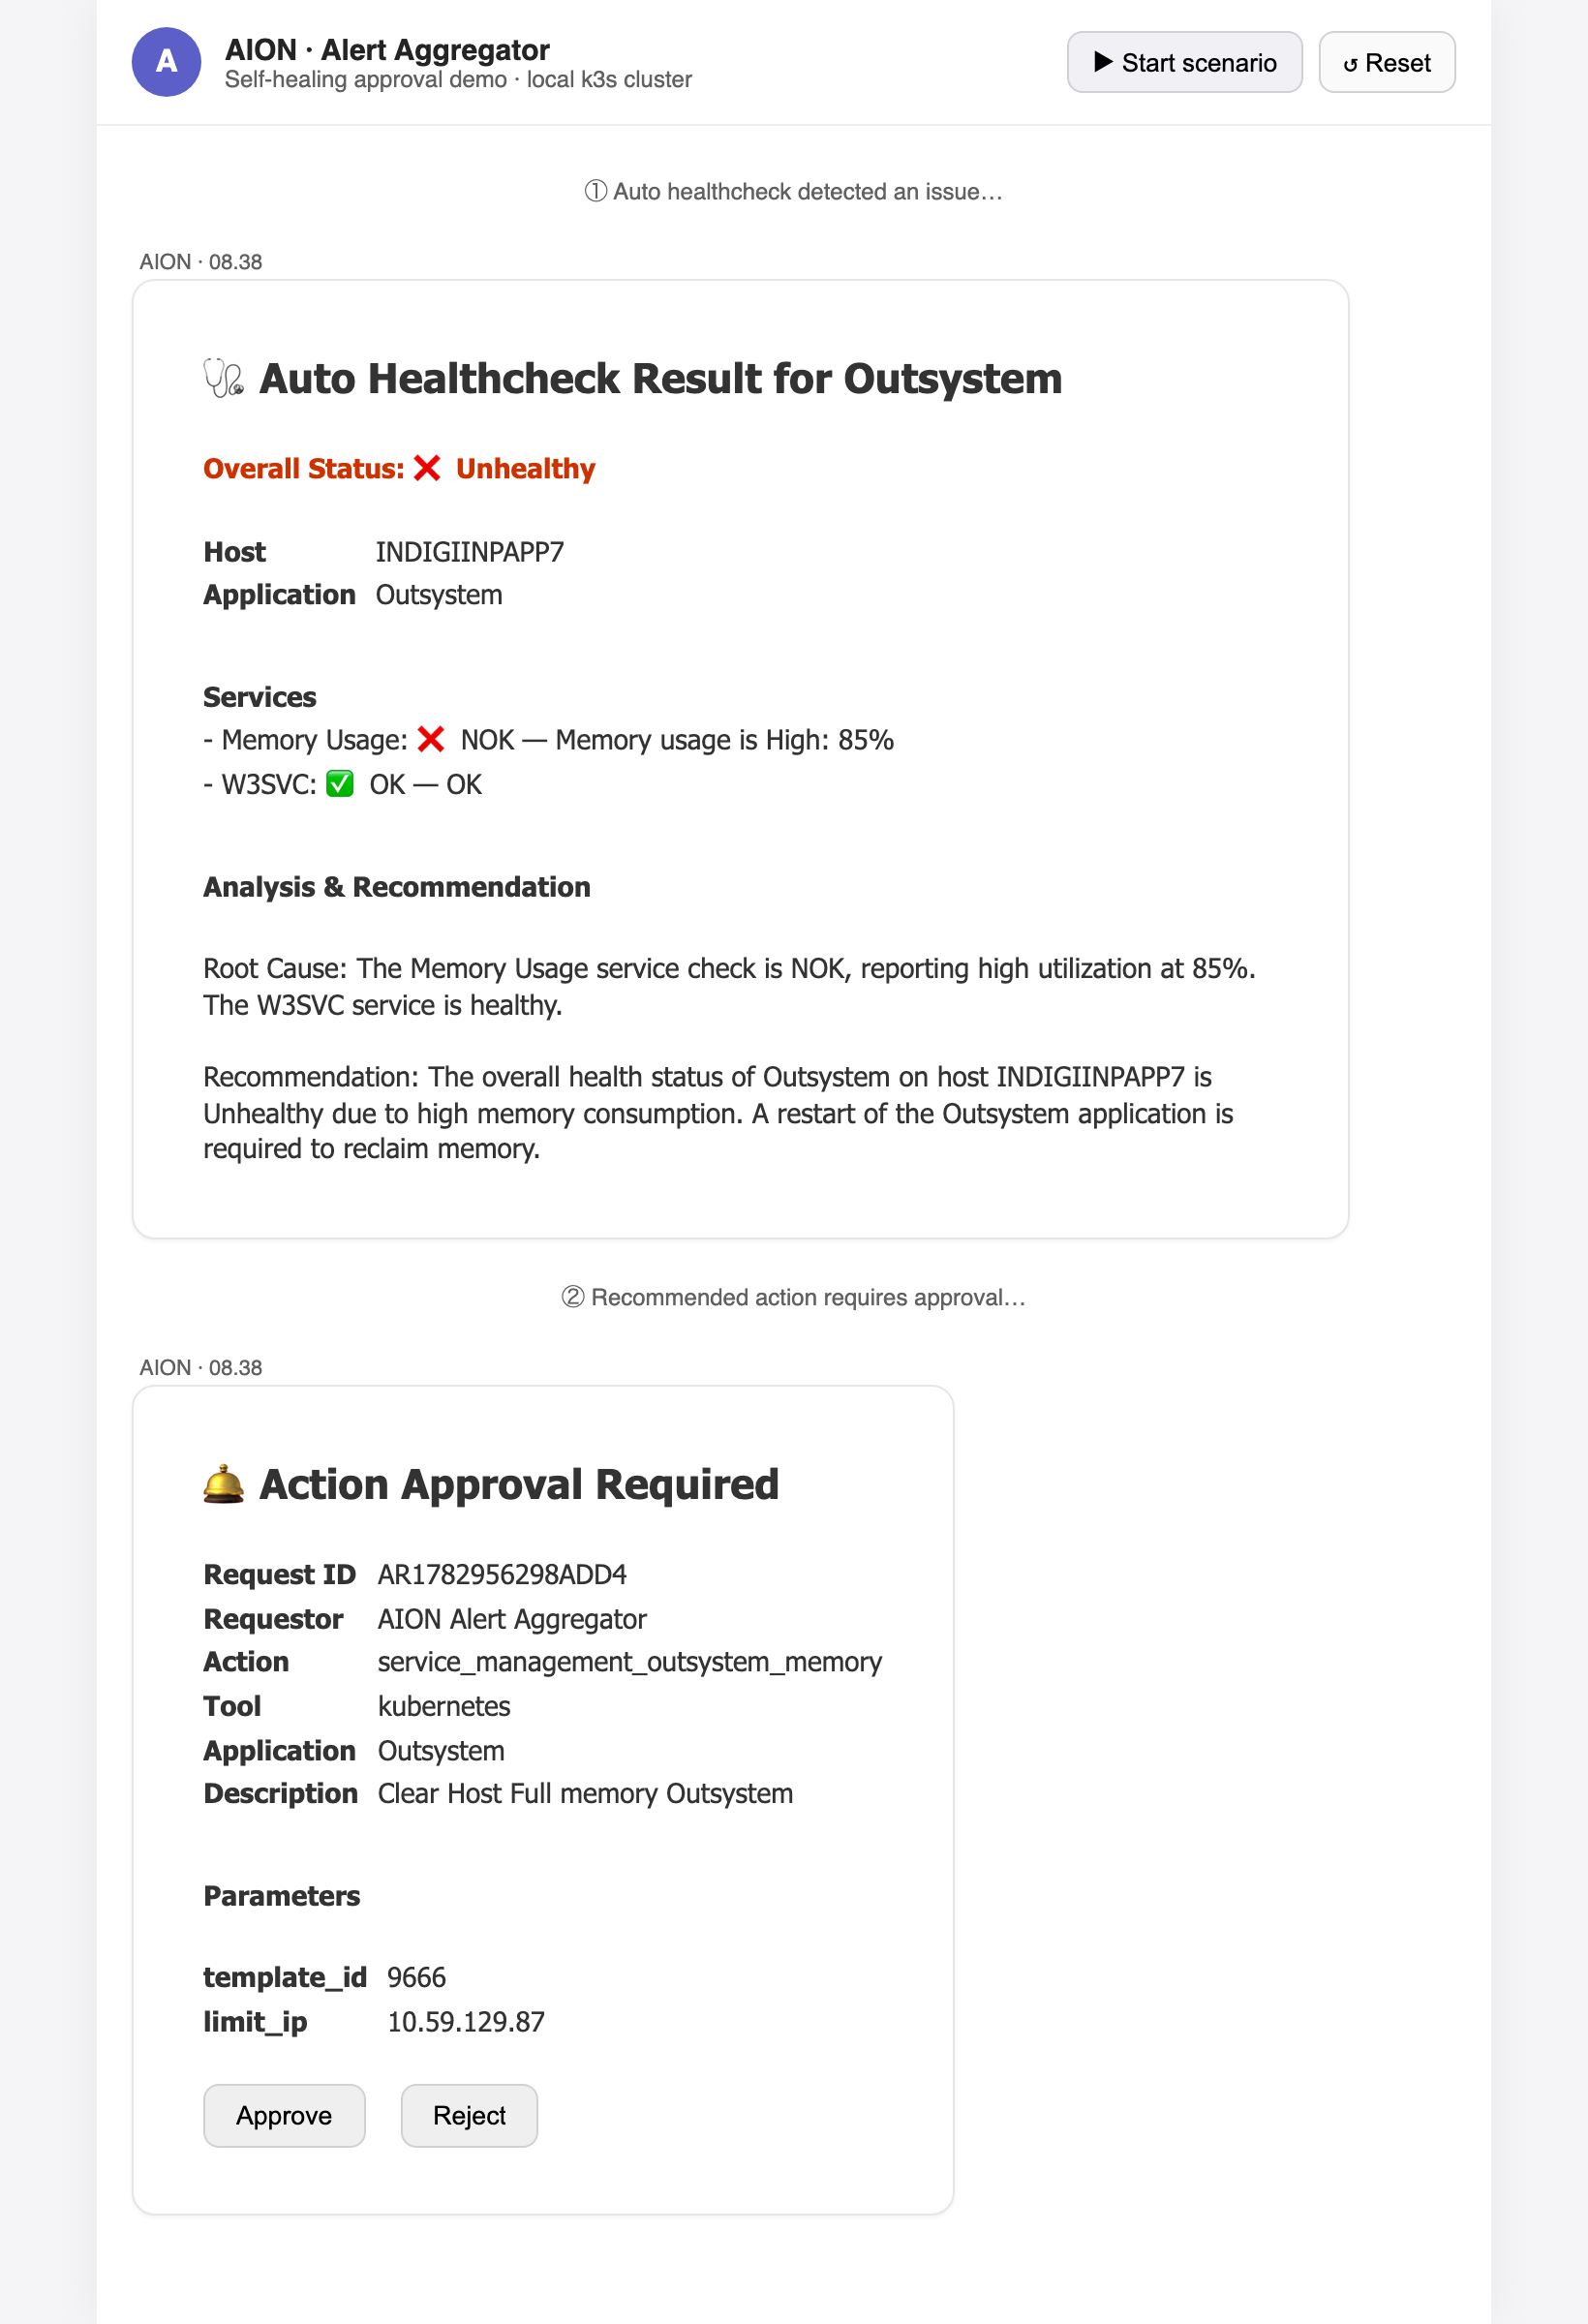
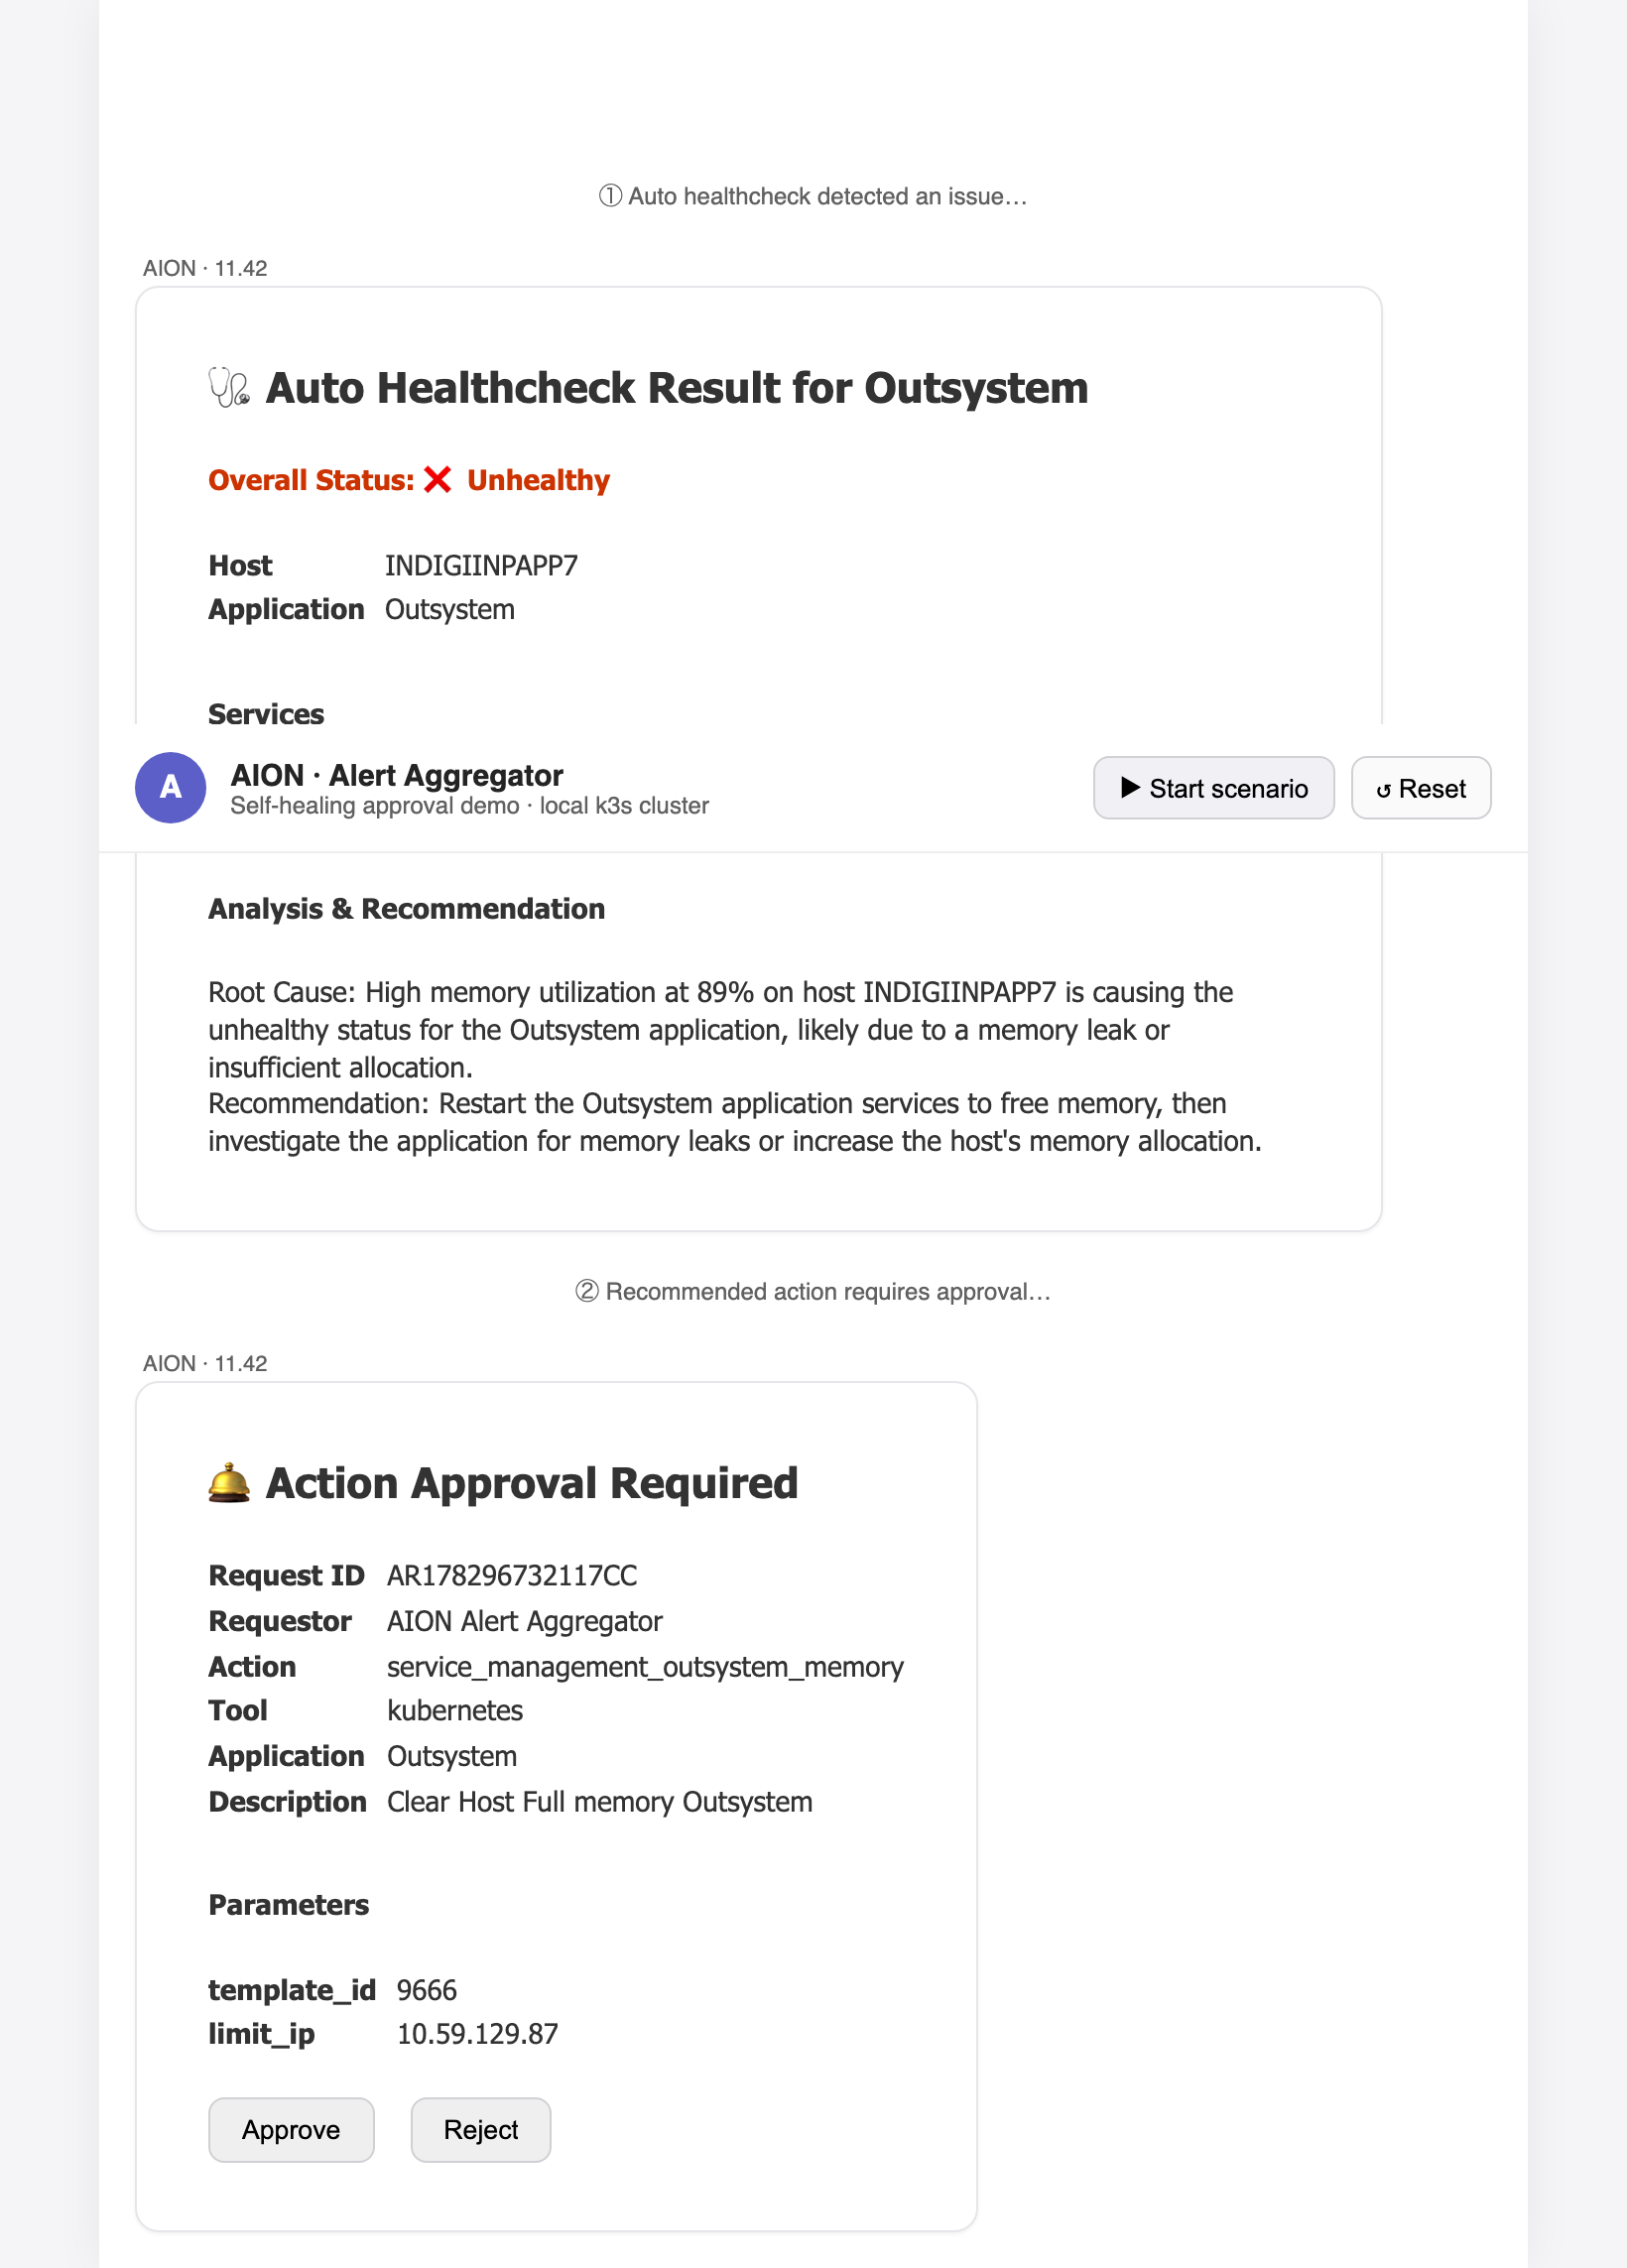
feat: real memory metric from pod cgroup (demo target with actual allocation)
Replaces the simulated memory value with a real one:
- deploy/memory-app: tiny app that allocates real memory on GET /leak; a restart
  frees it. Built locally (colima docker / kind load).
- KubeClient.pod_memory_percent(): reads the pod cgroup (memory.current/max, v2
  with v1 fallback) via kubectl exec — real, no metrics-server lag.
- KubeClient.trigger_memory_pressure(): drives the app to a high-memory state.
- DemoService now reads the real metric (fallback only if the read fails) and
  reset restarts first (fresh pod) to avoid leak stacking / OOM.
- _first_running_pod picks the newest Ready, non-terminating pod (fixes races).
- CI kind job builds + loads the image; integration assertions use thresholds.

Verified live: baseline 4% -> leak 89% -> restart 4%, no OOM. 38 unit + 3
integration tests pass. Screenshots + USE_CASES updated (memory now real).

diff --git a/src/self_healing/kube.py b/src/self_healing/kube.py
@@ -159,6 +159,90 @@ class KubeClient:
             )
         return infos
 
+    # --- real memory metric (via pod cgroup) --------------------------------
+
+    def _first_running_pod(self, deployment: str) -> str | None:
+        """Return the newest Ready, non-terminating pod for a deployment, or None.
+
+        Picking the newest Ready pod (and excluding pods with a deletionTimestamp)
+        avoids racing with a pod that is still terminating from a prior restart.
+        """
+        result = self._run(["get", "pods", "-l", f"app={deployment}", "-o", "json"], check=False)
+        if result.returncode != 0 or not result.stdout.strip():
+            return None
+        try:
+            items = json.loads(result.stdout).get("items", [])
+        except json.JSONDecodeError:
+            return None
+
+        candidates: list[tuple[str, str]] = []
+        for item in items:
+            metadata = item.get("metadata", {})
+            status = item.get("status", {})
+            if metadata.get("deletionTimestamp"):
+                continue
+            if status.get("phase") != "Running":
+                continue
+            container_statuses = status.get("containerStatuses") or []
+            if container_statuses and not all(cs.get("ready") for cs in container_statuses):
+                continue
+            candidates.append((metadata.get("creationTimestamp", ""), metadata.get("name", "")))
+
+        if not candidates:
+            return None
+        candidates.sort()  # ISO timestamps sort chronologically; newest is last
+        return candidates[-1][1] or None
+
+    def _exec_read(self, pod: str, shell_command: str) -> str | None:
+        """Run a shell command in a pod and return its stripped stdout, or None."""
+        result = self._run(
+            ["exec", pod, "--", "sh", "-c", shell_command], check=False, timeout=15
+        )
+        if result.returncode != 0:
+            return None
+        return result.stdout.strip()
+
+    def pod_memory_percent(self, deployment: str) -> int | None:
+        """Return a pod's memory usage as a percentage of its limit, read from cgroup.
+
+        Reads the container cgroup (v2 first, then v1) inside a Running pod, so the
+        value is the real, current memory usage — no metrics-server lag. Returns
+        None when it cannot be determined (e.g. no pod, no shell, no limit set).
+        """
+        pod = self._first_running_pod(deployment)
+        if not pod:
+            return None
+
+        used = self._exec_read(pod, "cat /sys/fs/cgroup/memory.current 2>/dev/null")
+        limit = self._exec_read(pod, "cat /sys/fs/cgroup/memory.max 2>/dev/null")
+        if used is None or not limit or limit == "max":
+            # cgroup v1 fallback
+            used = self._exec_read(pod, "cat /sys/fs/cgroup/memory/memory.usage_in_bytes 2>/dev/null")
+            limit = self._exec_read(pod, "cat /sys/fs/cgroup/memory/memory.limit_in_bytes 2>/dev/null")
+
+        try:
+            used_bytes = int(used)
+            limit_bytes = int(limit)
+        except (TypeError, ValueError):
+            return None
+        if limit_bytes <= 0:
+            return None
+        return max(0, min(100, round(used_bytes / limit_bytes * 100)))
+
+    def trigger_memory_pressure(self, deployment: str, megabytes: int) -> bool:
+        """Ask the target app (via its pod) to allocate and hold N MB of memory."""
+        pod = self._first_running_pod(deployment)
+        if not pod:
+            return False
+        code = (
+            "import urllib.request;"
+            f"urllib.request.urlopen('http://localhost:8080/leak?mb={megabytes}', timeout=10).read()"
+        )
+        result = self._run(
+            ["exec", pod, "--", "python", "-c", code], check=False, timeout=30
+        )
+        return result.returncode == 0
+
     # --- mutating remediation ----------------------------------------------
 
     def set_deployment_image(self, deployment: str, container: str, image: str) -> None:

diff --git a/deploy/memory-app/app.py b/deploy/memory-app/app.py
@@ -1,0 +1,46 @@
+"""Tiny HTTP app whose memory footprint can be grown at runtime.
+
+Endpoints:
+    GET /            -> "ok" (readiness / W3SVC-equivalent)
+    GET /leak?mb=N   -> allocate N MB and hold it (raises real RSS / cgroup usage)
+    GET /free        -> release everything
+
+Used by the approval demo as a target with a *real* memory metric: a restart
+drops the held memory back to baseline, so remediation is genuinely observable.
+"""
+
+import http.server
+import urllib.parse
+
+# Held allocations — kept alive so the process RSS (and cgroup usage) stays high.
+_balloon: list[bytearray] = []
+
+
+class Handler(http.server.BaseHTTPRequestHandler):
+    def _send(self, code: int, body: str) -> None:
+        payload = body.encode("utf-8")
+        self.send_response(code)
+        self.send_header("Content-Type", "text/plain; charset=utf-8")
+        self.send_header("Content-Length", str(len(payload)))
+        self.end_headers()
+        self.wfile.write(payload)
+
+    def do_GET(self) -> None:
+        parsed = urllib.parse.urlparse(self.path)
+        if parsed.path == "/leak":
+            query = urllib.parse.parse_qs(parsed.query)
+            megabytes = int(query.get("mb", ["50"])[0])
+            _balloon.append(bytearray(megabytes * 1024 * 1024))
+            self._send(200, f"allocated {megabytes}MB (chunks={len(_balloon)})")
+        elif parsed.path == "/free":
+            _balloon.clear()
+            self._send(200, "freed")
+        else:
+            self._send(200, "ok")
+
+    def log_message(self, *args) -> None:  # silence request logging
+        return
+
+
+if __name__ == "__main__":
+    http.server.ThreadingHTTPServer(("0.0.0.0", 8080), Handler).serve_forever()

diff --git a/src/approvals/service.py b/src/approvals/service.py
@@ -28,8 +28,11 @@ logger = logging.getLogger(__name__)
 
 # Memory utilization at or above this percentage is considered NOK.
 MEMORY_NOK_THRESHOLD = 80
-_UNHEALTHY_MEMORY = 85
-_HEALED_MEMORY = 32
+# How much memory to allocate in the target to create a real high-memory state.
+_LEAK_MEGABYTES = 340
+# Fallback values used only when the real cgroup metric cannot be read.
+_FALLBACK_UNHEALTHY_MEMORY = 88
+_FALLBACK_HEALED_MEMORY = 6
 
 
 class DemoService:
@@ -51,27 +54,38 @@ class DemoService:
         self.executor = executor or build_executor(kube, self.config)
         self.host = "INDIGIINPAPP7"
         self.application = "Outsystem"
-        self.memory_percent = _UNHEALTHY_MEMORY
+        # Used only when the real cgroup metric cannot be read.
+        self._fallback_memory = _FALLBACK_UNHEALTHY_MEMORY
         self._requests: dict[str, ApprovalRequest] = {}
 
     # --- target lifecycle ---------------------------------------------------
 
     def reset_target(self) -> HealthReport:
-        """Deploy the sample app healthy and seed the simulated high-memory fault."""
+        """Deploy the target, then create a real high-memory state to remediate."""
         try:
             self.kube.apply(self.config.manifest_path)
-            self.kube.set_deployment_image(
-                self.config.deployment, self.config.container, self.config.good_image
-            )
+            # Start from a fresh pod so a prior leak can't stack and OOM the container.
+            self.kube.restart_rollout(self.config.deployment)
             self.kube.wait_rollout(self.config.deployment, timeout=self.config.rollout_timeout_seconds)
+            # Drive the app into a real high-memory state (held in the pod).
+            self.kube.trigger_memory_pressure(self.config.deployment, _LEAK_MEGABYTES)
         except KubeError as exc:  # pragma: no cover - surfaced to the caller/UI
             logger.warning("reset_target could not prepare the cluster: %s", exc)
-        self.memory_percent = _UNHEALTHY_MEMORY
+        self._fallback_memory = _FALLBACK_UNHEALTHY_MEMORY
         self._requests.clear()
         return self.healthcheck()
 
+    def _read_memory_percent(self) -> int:
+        """Read the real pod memory %, falling back to the last known state."""
+        try:
+            measured = self.kube.pod_memory_percent(self.config.deployment)
+        except KubeError as exc:  # pragma: no cover - defensive
+            logger.warning("memory read failed: %s", exc)
+            measured = None
+        return measured if measured is not None else self._fallback_memory
+
     def healthcheck(self) -> HealthReport:
-        """Probe the target: real deployment readiness + simulated memory metric."""
+        """Probe the target: real deployment readiness + real pod memory metric."""
         try:
             ready = (
                 self.kube.available_replicas(self.config.deployment) >= 1
@@ -81,15 +95,16 @@ class DemoService:
             logger.warning("healthcheck kube read failed: %s", exc)
             ready = False
 
-        memory_ok = self.memory_percent < MEMORY_NOK_THRESHOLD
+        memory_percent = self._read_memory_percent()
+        memory_ok = memory_percent < MEMORY_NOK_THRESHOLD
         services = [
             ServiceCheck(
                 name="Memory Usage",
                 ok=memory_ok,
                 detail=(
-                    f"Memory usage is High: {self.memory_percent}%"
+                    f"Memory usage is High: {memory_percent}%"
                     if not memory_ok
-                    else f"Memory usage normal: {self.memory_percent}%"
+                    else f"Memory usage normal: {memory_percent}%"
                 ),
             ),
             ServiceCheck(name="W3SVC", ok=ready, detail="OK" if ready else "Not serving"),
@@ -99,7 +114,7 @@ class DemoService:
             host=self.host,
             application=self.application,
             healthy=healthy,
-            memory_percent=self.memory_percent,
+            memory_percent=memory_percent,
             deployment_ready=ready,
             services=services,
         )
@@ -156,7 +171,8 @@ class DemoService:
         execution = self.executor.execute(request.action)
         request.execution = execution
         if execution.success:
-            self.memory_percent = _HEALED_MEMORY
+            # Restart freed the held memory; new pod starts at baseline.
+            self._fallback_memory = _FALLBACK_HEALED_MEMORY
         request.verify = self.healthcheck()
         request.status = ApprovalStatus.EXECUTED if execution.success else ApprovalStatus.FAILED
         return request

diff --git a/demo/app.py b/demo/app.py
@@ -28,9 +28,19 @@ logger = logging.getLogger(__name__)
 _STATIC_DIR = Path(__file__).parent / "static"
 
 
+_DEMO_MANIFEST = str(Path(__file__).resolve().parents[1] / "deploy" / "memory-app.yaml")
+
+
 def _build_service() -> DemoService:
-    """Construct the demo service bound to the local cluster."""
-    config = PipelineConfig()
+    """Construct the demo service bound to the memory-app target on the cluster."""
+    config = PipelineConfig(
+        deployment="memory-app",
+        container="app",
+        service="memory-app",
+        good_image="self-healing-memory-app:local",
+        broken_image="self-healing-memory-app:local",
+        manifest_path=_DEMO_MANIFEST,
+    )
     kube = KubeClient(namespace=config.namespace)
     return DemoService(kube=kube, config=config)
 

diff --git a/tests/test_approvals.py b/tests/test_approvals.py
@@ -21,6 +21,7 @@ class FakeKube:
         self.restart_calls = 0
         self.applied = False
         self.image = CONFIG.good_image
+        self.memory = 88  # starts high; restart heals it
 
     def apply(self, manifest_path: str) -> None:
         self.applied = True
@@ -34,8 +35,16 @@ class FakeKube:
     def ready_endpoint_count(self, service: str) -> int:
         return 1
 
+    def pod_memory_percent(self, deployment: str) -> int:
+        return self.memory
+
+    def trigger_memory_pressure(self, deployment: str, megabytes: int) -> bool:
+        self.memory = 88
+        return True
+
     def restart_rollout(self, deployment: str) -> None:
         self.restart_calls += 1
+        self.memory = 6  # new pod starts at baseline
 
     def wait_rollout(self, deployment: str, timeout: int = 120) -> bool:
         return True
@@ -53,7 +62,7 @@ def test_healthcheck_starts_unhealthy_due_to_memory():
     service = _service()
     report = service.healthcheck()
     assert report.healthy is False
-    assert report.memory_percent == 85
+    assert report.memory_percent == 88
     memory = next(s for s in report.services if s.name == "Memory Usage")
     assert memory.ok is False
 

diff --git a/tests/test_teams_endpoint.py b/tests/test_teams_endpoint.py
@@ -20,6 +20,7 @@ class FakeKube:
     def __init__(self) -> None:
         self.namespace = CONFIG.namespace
         self.restart_calls = 0
+        self.memory = 88
 
     def apply(self, manifest_path: str) -> None:
         pass
@@ -33,8 +34,16 @@ class FakeKube:
     def ready_endpoint_count(self, service: str) -> int:
         return 1
 
+    def pod_memory_percent(self, deployment: str) -> int:
+        return self.memory
+
+    def trigger_memory_pressure(self, deployment: str, megabytes: int) -> bool:
+        self.memory = 88
+        return True
+
     def restart_rollout(self, deployment: str) -> None:
         self.restart_calls += 1
+        self.memory = 6
 
     def wait_rollout(self, deployment: str, timeout: int = 120) -> bool:
         return True

diff --git a/tests/test_integration_e2e.py b/tests/test_integration_e2e.py
@@ -64,7 +64,7 @@ def test_full_approval_flow_heals_real_cluster(client):
     reset = client.post("/api/demo/reset")
     assert reset.status_code == 200
     assert reset.json()["healthy"] is False
-    assert reset.json()["memory_percent"] == 85
+    assert reset.json()["memory_percent"] >= 80  # real cgroup metric after the leak
 
     # ② Approval: an action is recommended and a request opened.
     approval = client.post("/api/demo/request-approval").json()
@@ -80,7 +80,7 @@ def test_full_approval_flow_heals_real_cluster(client):
     # ④ Verify: a fresh healthcheck reports healthy after the fix.
     healthcheck = client.post("/api/demo/healthcheck").json()
     assert healthcheck["healthy"] is True
-    assert healthcheck["memory_percent"] == 32
+    assert healthcheck["memory_percent"] < 80  # memory freed by the restart
 
 
 def test_full_teams_invoke_flow_heals_real_cluster(client):

diff --git a/docs/USE_CASES.md b/docs/USE_CASES.md
@@ -2,7 +2,10 @@
 
 What each part of this project demonstrates, how to trigger it, and what "success"
 looks like. All of these run against a real local Kubernetes cluster (colima/k3s or
-kind); only the memory metric is simulated — remediation actions are real.
+kind). Both the remediation and the memory metric are **real**: the demo target
+(`memory-app`) allocates actual memory on `/leak`, the metric is read from the pod
+**cgroup** (`/sys/fs/cgroup/memory.current` ÷ `memory.max`), and a rollout restart
+frees it.
 
 ## 1. Approval-gated remediation (the AION memory flow)
 
@@ -78,6 +81,11 @@ is LLM-generated (matching how AION phrases its analysis).
 | Element | Local demo | Production mapping |
 |---------|-----------|--------------------|
 | Remediation (restart) | **Real** k8s rollout restart / real ansible-playbook | AWX job on the real host |
-| Memory metric (85%→32%) | Simulated (deterministic) | Read by the Ansible healthcheck template |
-| Target host | k8s `sample-app` (traefik/whoami) | Windows/IIS host, OutSystems |
+| Memory metric | **Real** — allocated in `memory-app`, read from the pod cgroup | Real host metric via monitoring / Ansible healthcheck |
+| Analysis narrative | **Real LLM** (Azure OpenAI / DeepSeek) or template fallback | LLM (AION) |
+| Target | k8s `memory-app` (demo) / `sample-app` whoami (image-drift pipeline) | Windows/IIS host, OutSystems |
 | Teams cards | Real Adaptive Cards (web renderer + invoke contract) | Real Teams tenant via bot / Power Automate |
+
+> The only non-real element left is host **identity** (`INDIGIINPAPP7`, template ids
+> 9665/9666, IP) — hardcoded to mirror the AION screenshots. In production these come
+> from your inventory/CMDB and the alert payload.